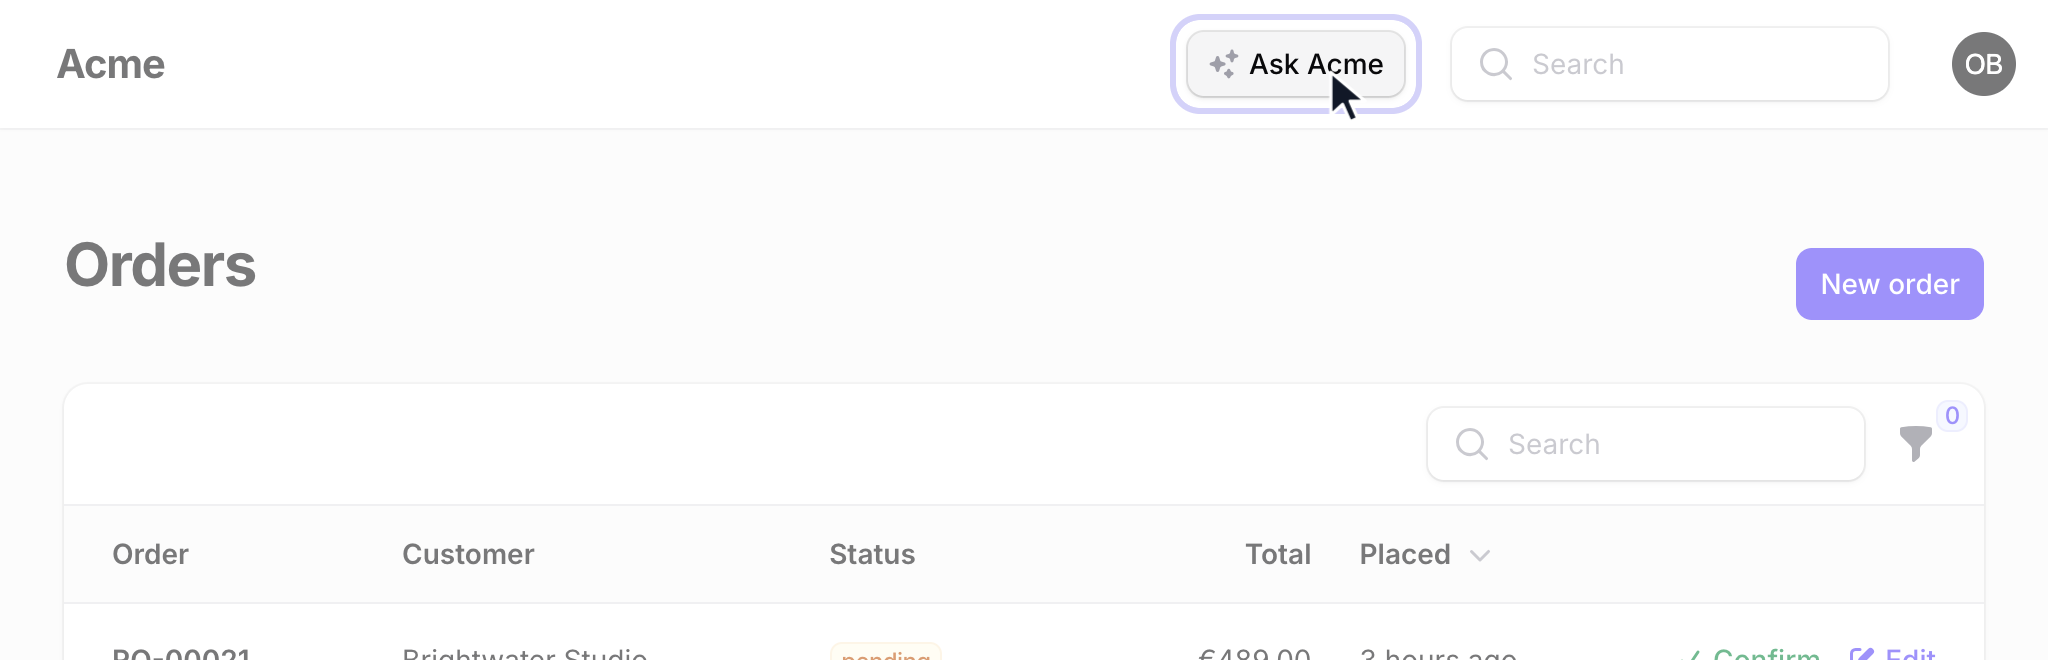
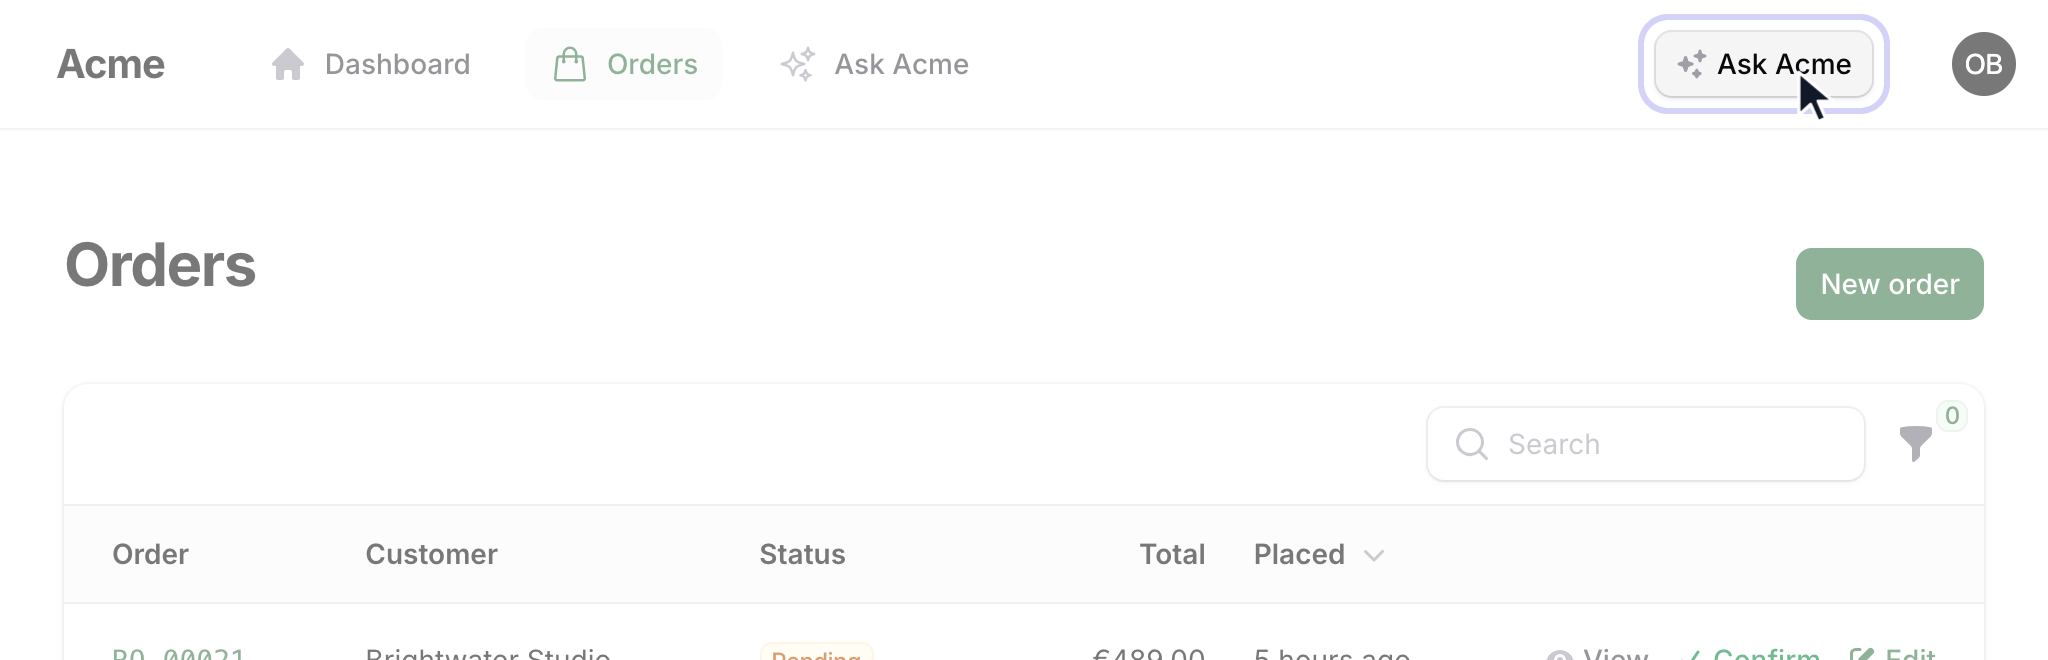
Docs screenshots retaken with the one-row composer; a new chat-new.png of the empty chat (the "Ask Acme" item active in the top navigation, the starter questions, the composer) in the README and docs/assistant.md

diff --git a/README.md b/README.md
@@ -128,6 +128,8 @@ class AcmeServer extends \Packstub\Agents\Mcp\AgentServer
 
 The assistant lives on a chat page with an "Ask …" button in the topbar and the recent conversations in the sidebar (an "Ask …" navigation item on a panel with top navigation). A new chat opens on a row of starter questions from your agent's `suggestions()`, each sent on click. Answers are produced by a queued job and stream into the page while the agent calls tools — a reload, a closed tab or a second tab picks the answer up where it is, and Stop cuts it short (run `php artisan queue:work`, or set `AGENT_TURN_DRIVER=sync` to run the job inside the request). Long chats replay a token-budgeted window with a rolling summary; a context ring in the composer shows the breakdown and what the chat cost, with Compress now and Continue in a new chat. A proposed change shows up as a question with Approve and Reject ("Confirm order RO-00020 for Halvorsen & Co.?", the exact call folded under it), and the turn resumes with the decision. Conversations are stored with laravel/ai's models, follow-ups wait their turn per conversation, the last exchange can be regenerated or edited and sent again, and every answer can be rated with a thumbs up or down. The composer is one row — the question, the model and Send — and the model is a small text button that opens the list by name (Claude Opus 5, Claude Haiku 4.5, Claude Opus 5 · Deep out of the box; entries of more than one provider under provider headings), remembered per session.
 
+![A new chat: the "Ask Acme" item active in the top navigation, the assistant's name over four starter questions as pills, and the one-row composer with the model button and Send](https://raw.githubusercontent.com/packstub/filament-agents/main/docs/images/chat-new.png)
+
 Ask for records and the answer comes with the resource's own table under it, filtered the way the answer says, with the row actions the person's role allows:
 
 ![A question about pending orders answered with a short summary and the live Orders table under it, filtered to the three pending rows, with Confirm and Edit actions](https://raw.githubusercontent.com/packstub/filament-agents/main/docs/images/chat-table.png)
@@ -138,7 +140,7 @@ Ask for a trend and the numbers come back drawn as a chart, from `draw-chart` or
 
 Ask for a change and the turn pauses on a question until the person approves or rejects it; the composer with the model picker waits underneath:
 
-![A request to confirm an order paused as the question "Confirm order RO-00020 for Halvorsen & Co.?" with Approve and Reject buttons and the folded confirm-order call under it, the composer with the model picker underneath](https://raw.githubusercontent.com/packstub/filament-agents/main/docs/images/chat-approval.png)
+![A request to confirm an order paused as the question "Confirm order RO-00020 for Halvorsen & Co.?" with Approve and Reject buttons and the folded confirm-order call under it, the one-row composer underneath](https://raw.githubusercontent.com/packstub/filament-agents/main/docs/images/chat-approval.png)
 
 Read more: [The assistant](https://packstub.dev/docs/filament-agents/assistant).
 

diff --git a/docs/assistant.md b/docs/assistant.md
@@ -10,6 +10,8 @@
 
 A new chat opens on the assistant's name and a row of starter questions; click one and it is sent. They come from your agent's `suggestions()` (see [The Agent class](#the-agent-class)): by default what needs attention today, "Show me the latest orders." for the first two agent resources and what the assistant can do, or, when the chat was opened from a record, "What should I know about Order RO-00012?" and "What is the next step for Order RO-00012?".
 
+![A new chat: the "Ask Acme" item active in the top navigation, the assistant's name over four starter questions as pills, and the one-row composer with the model button and Send](https://raw.githubusercontent.com/packstub/filament-agents/main/docs/images/chat-new.png)
+
 An answer about records renders the resource's own table under itself, narrowed to what the answer says, with the same search, sorting and row actions as the list page:
 
 ![A question about pending orders answered with a short summary and the live Orders table under it, filtered to the three pending rows, with Confirm and Edit actions](https://raw.githubusercontent.com/packstub/filament-agents/main/docs/images/chat-table.png)
@@ -44,7 +46,7 @@ While it waits the proposal is the most prominent element on the page; once deci
 
 The proposal sits in the conversation like any other answer, with the composer underneath for the follow-up:
 
-![A request to confirm an order paused as the question "Confirm order RO-00020 for Halvorsen & Co.?" with Approve and Reject buttons and the folded confirm-order call under it, the composer with the model picker underneath](https://raw.githubusercontent.com/packstub/filament-agents/main/docs/images/chat-approval.png)
+![A request to confirm an order paused as the question "Confirm order RO-00020 for Halvorsen & Co.?" with Approve and Reject buttons and the folded confirm-order call under it, the one-row composer underneath](https://raw.githubusercontent.com/packstub/filament-agents/main/docs/images/chat-approval.png)
 
 ### When the chat is hidden
 
